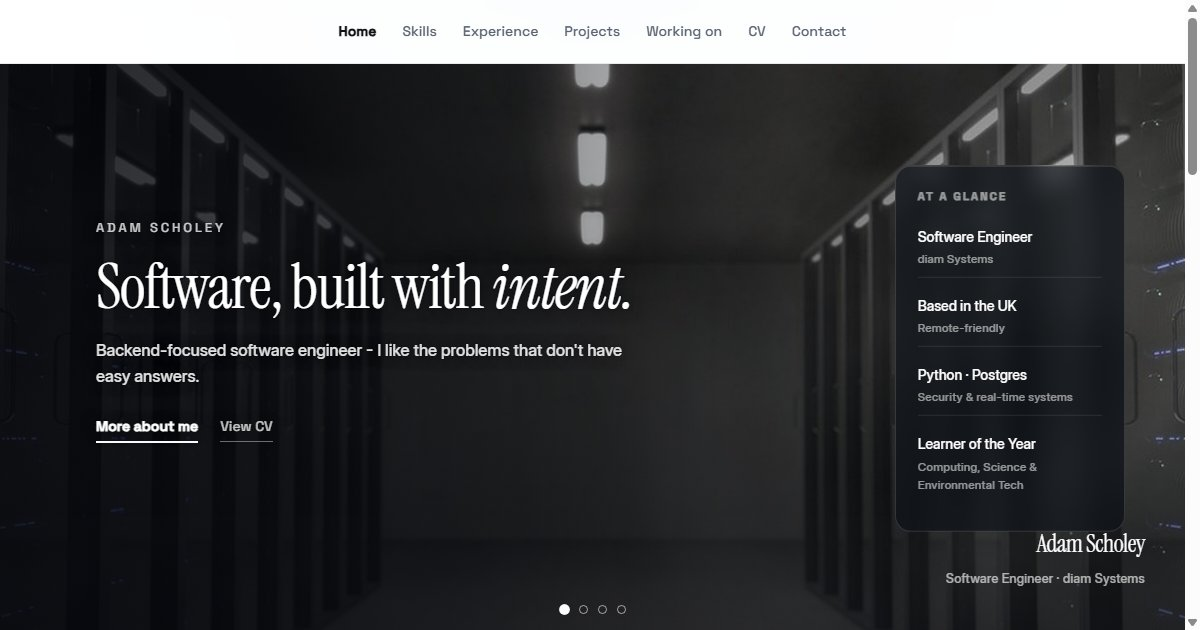
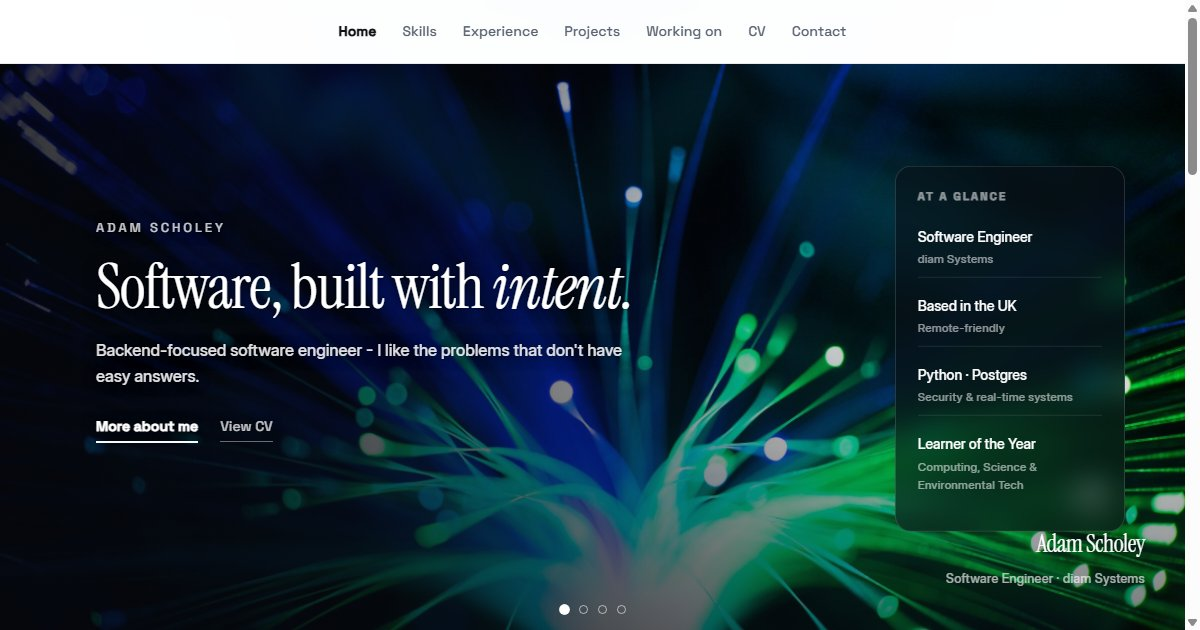
Swap hero imagery for vibrant real photography
Replaces the render-style corridor shot and the rest of the set with
four real high-resolution Pexels photos (2400px): fibre-optic burst,
blue server racks, neon perforated bezel, teal patch panel - all dark,
colourful, no CGI look. Credits updated; OG share image regenerated
from the new hero.

Generated with [Devin](https://devin.ai)

diff --git a/index.html b/index.html
@@ -449,7 +449,7 @@ a:focus-visible,button:focus-visible,input:focus-visible,[tabindex]:focus-visibl
     <div class="hero-media">
       <div class="hero-track">
         <div class="hero-slide dark">
-          <img src="images/dc-corridor.jpg" decoding="async" fetchpriority="high" alt="Dark data centre corridor lined with glass-fronted server cabinets">
+          <img src="images/dc-fiber.jpg" decoding="async" fetchpriority="high" alt="Fibre optic strands glowing blue and green against black">
           <div class="hero-shade"></div>
           <div class="slide-caption">
             <div class="slide-kicker">Adam Scholey</div>
@@ -462,7 +462,7 @@ a:focus-visible,button:focus-visible,input:focus-visible,[tabindex]:focus-visibl
           </div>
         </div>
         <div class="hero-slide dark">
-          <img src="images/dc-racks.jpg" decoding="async" alt="Angled view of dark server racks with glowing green status lights">
+          <img src="images/dc-blue.jpg" decoding="async" alt="Rows of server racks illuminated in deep blue light">
           <div class="hero-shade"></div>
           <div class="slide-caption">
             <div class="slide-kicker">Backend Engineering</div>
@@ -472,7 +472,7 @@ a:focus-visible,button:focus-visible,input:focus-visible,[tabindex]:focus-visibl
           </div>
         </div>
         <div class="hero-slide dark">
-          <img src="images/dc-drives.jpg" decoding="async" alt="Blue-lit server drive array photographed at an angle">
+          <img src="images/dc-neon.jpg" decoding="async" alt="Perforated metal surface glowing with pink and blue light">
           <div class="hero-shade"></div>
           <div class="slide-caption">
             <div class="slide-kicker">Security</div>
@@ -482,7 +482,7 @@ a:focus-visible,button:focus-visible,input:focus-visible,[tabindex]:focus-visibl
           </div>
         </div>
         <div class="hero-slide dark">
-          <img src="images/dc-bezel.jpg" decoding="async" alt="Close-up of a glowing blue perforated server bezel">
+          <img src="images/dc-panel.jpg" decoding="async" alt="Teal patch panel with neatly bundled network cables">
           <div class="hero-shade"></div>
           <div class="slide-caption">
             <div class="slide-kicker">Currently</div>
@@ -611,7 +611,7 @@ a:focus-visible,button:focus-visible,input:focus-visible,[tabindex]:focus-visibl
     <a href="contact.html">Contact</a>
   </div>
   <p style="color:var(--soft);font-size:12px">© <span id="year">2026</span> Adam Scholey · Software Engineer</p>
-  <p class="img-credits">Hero photos: <a href="https://www.pexels.com/photo/close-up-of-a-blue-server-rack-in-datacenter-37730211/">panumas nikhomkhai</a> via <a href="https://www.pexels.com">Pexels</a>, and <a href="https://pixabay.com/photos/server-server-space-technology-data-2160321/">Pixabay</a></p>
+  <p class="img-credits">Hero photos: panumas nikhomkhai, Atlantic Ambience, Scott Webb and Brett Sayles via <a href="https://www.pexels.com">Pexels</a></p>
 </footer>
 
 <script>
